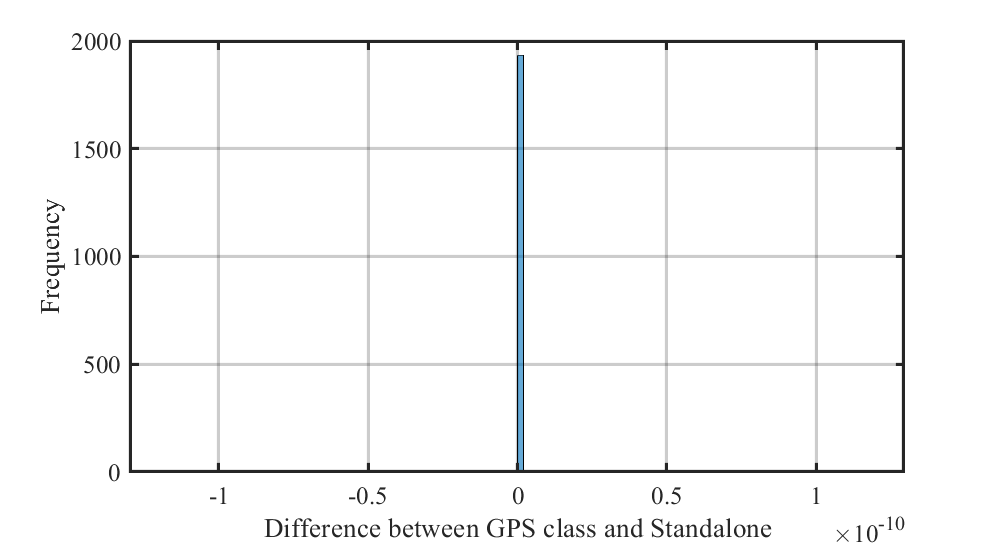
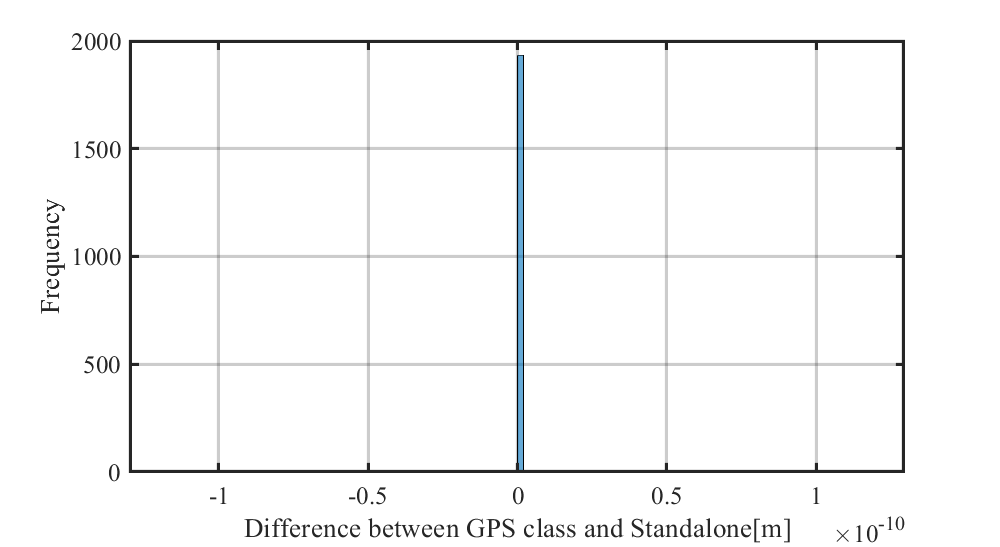
Added units to the plots. Updated text.

Changed region(s): [[0.248, 0.9324, 0.806, 0.9945]]

diff --git a/Functions/fcn_compareCSConcersion.m b/Functions/fcn_compareCSConcersion.m
@@ -111,21 +111,34 @@ figure();
 
 histogram(pathResult.diffAg13);
 ylabel('Frequency');
-xlabel('Difference between GPS class and MATLAB built-in');
+if strcmp(convertMode,'enu2lla') || strcmp(convertMode,'xyz2lla')
+xlabel('Difference between GPS class and MATLAB built-in[deg]');
+else
+xlabel('Difference between GPS class and MATLAB built-in[m]');   
+end
+
 fcn_setFigureFormat;
 print(gcf,strcat(convertMode,'-Difference between GPS class and MATLAB built-in'),'-dpng');
 
 figure();
 histogram(pathResult.diffAg23);
 ylabel('Frequency');
-xlabel('Difference between Standalone and MATLAB built-in');
+if strcmp(convertMode,'enu2lla') || strcmp(convertMode,'xyz2lla')
+xlabel('Difference between Standalone and MATLAB built-in[deg]');
+else
+    xlabel('Difference between Standalone and MATLAB built-in[m]');
+end
 fcn_setFigureFormat;
 print(gcf,strcat(convertMode,'-Difference between Standalone and MATLAB built-in'),'-dpng');
 
 figure();
 histogram(pathResult.diffAg12);
 ylabel('Frequency');
-xlabel('Difference between GPS class and Standalone');
+if strcmp(convertMode,'enu2lla') || strcmp(convertMode,'xyz2lla')
+xlabel('Difference between GPS class and Standalone[deg]');
+else
+xlabel('Difference between GPS class and Standalone[m]');    
+end
 fcn_setFigureFormat;
 print(gcf,strcat(convertMode,'-Difference between GPS class and Standalone'),'-dpng');
 end

diff --git a/README.md b/README.md
@@ -90,6 +90,10 @@ As well, different tool sets use different coordinate systems. For example:
 
 Thus, there is a need for better data representations and coordinate systems. But each coordinate system encounters challenges, particularly because the representation of roadways typically assumes a "flat" surface. Thus, as the scale of a local area becomes large enough, the errors between a flat approximation versus a spherical approximation begin to grow and can become so pronounced that data begin to disagree depending on the origin used for the flat representation. When operating vehicles over a "large" area, for example tens to hundreds of kilometers, these errors can be so large that one cannot tell, on the "edge" of a mapped region, which lane or which road a vehicle is operating in - even though the so-called precision of the GPS measurement is reporting centimeter-level accuracy.
 
+In the ADS project, we need conversions among the coordinate systems as below: 
+
+<img src=".\Images\Coordinat_System_Conversion.png"  >
+
 This "GPSclass" code assists in performing large the coordinate systems for GPS data, including East-North-Up (ENU), Latitude-Longitude-Altitude (LLA) and Earth-Centered-Earth-Fixed (ECEF) systems. 
 
 NOTE: a companion repository, https://github.com/ivsg-psu/TrafficSimulators_WideAreaCoordinateSystems , reviews the above issues, showing calculations for different transformation sequences, and reveals that particular transformation sequences generate less error than others. 
